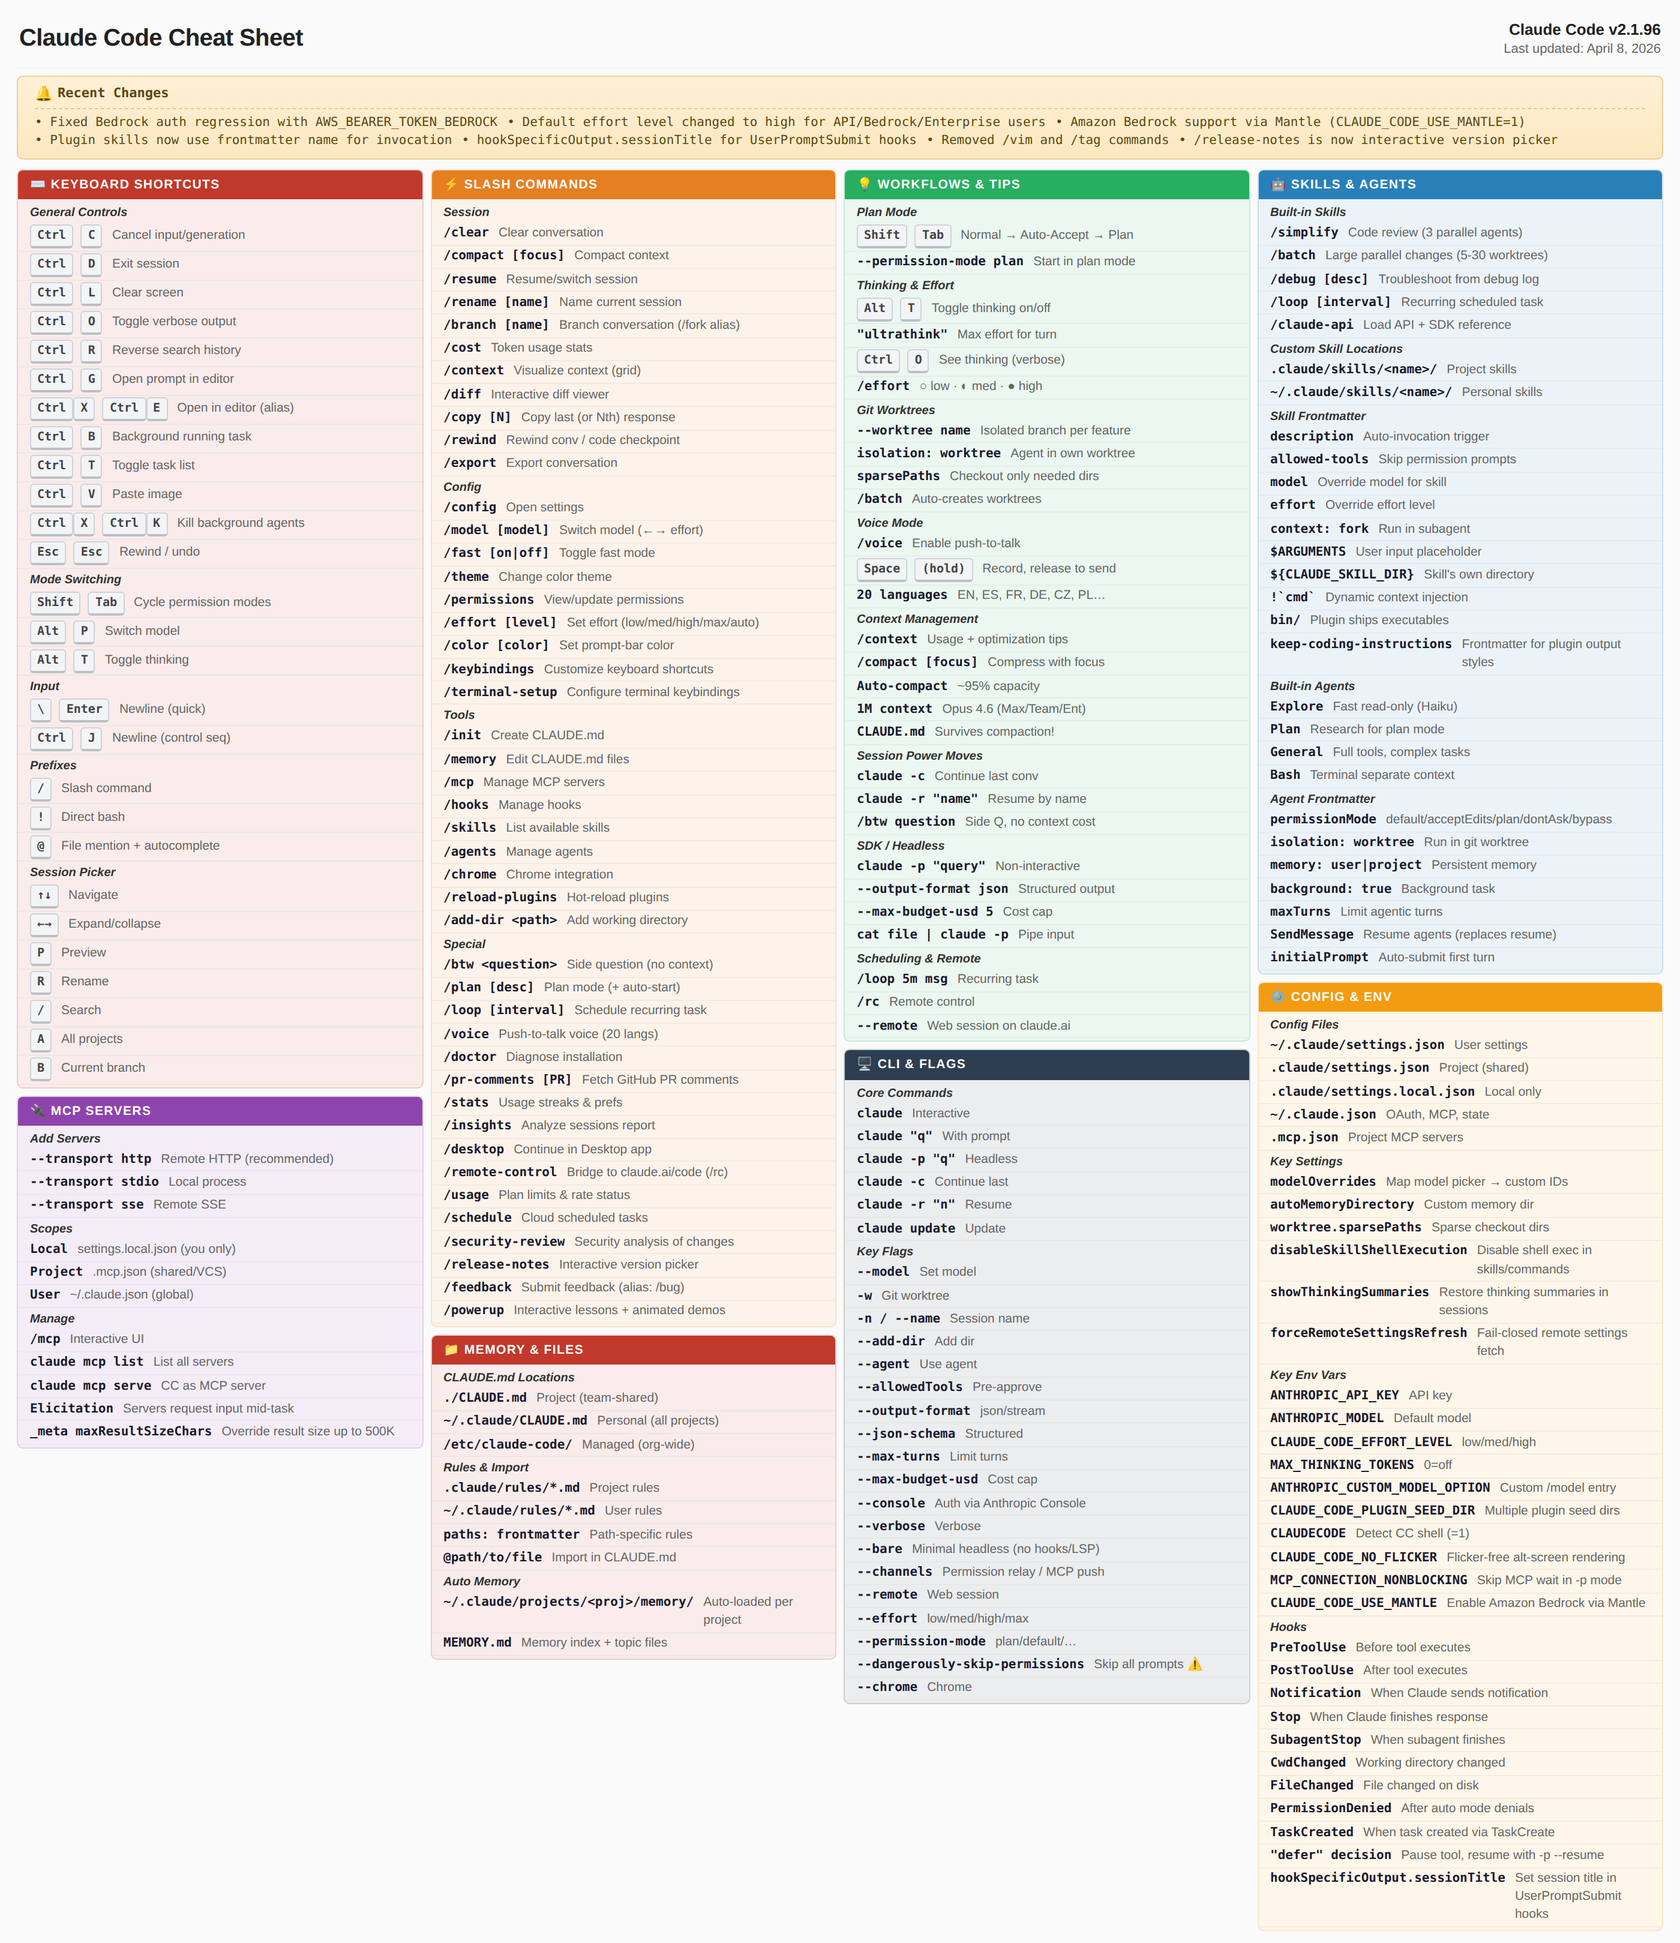
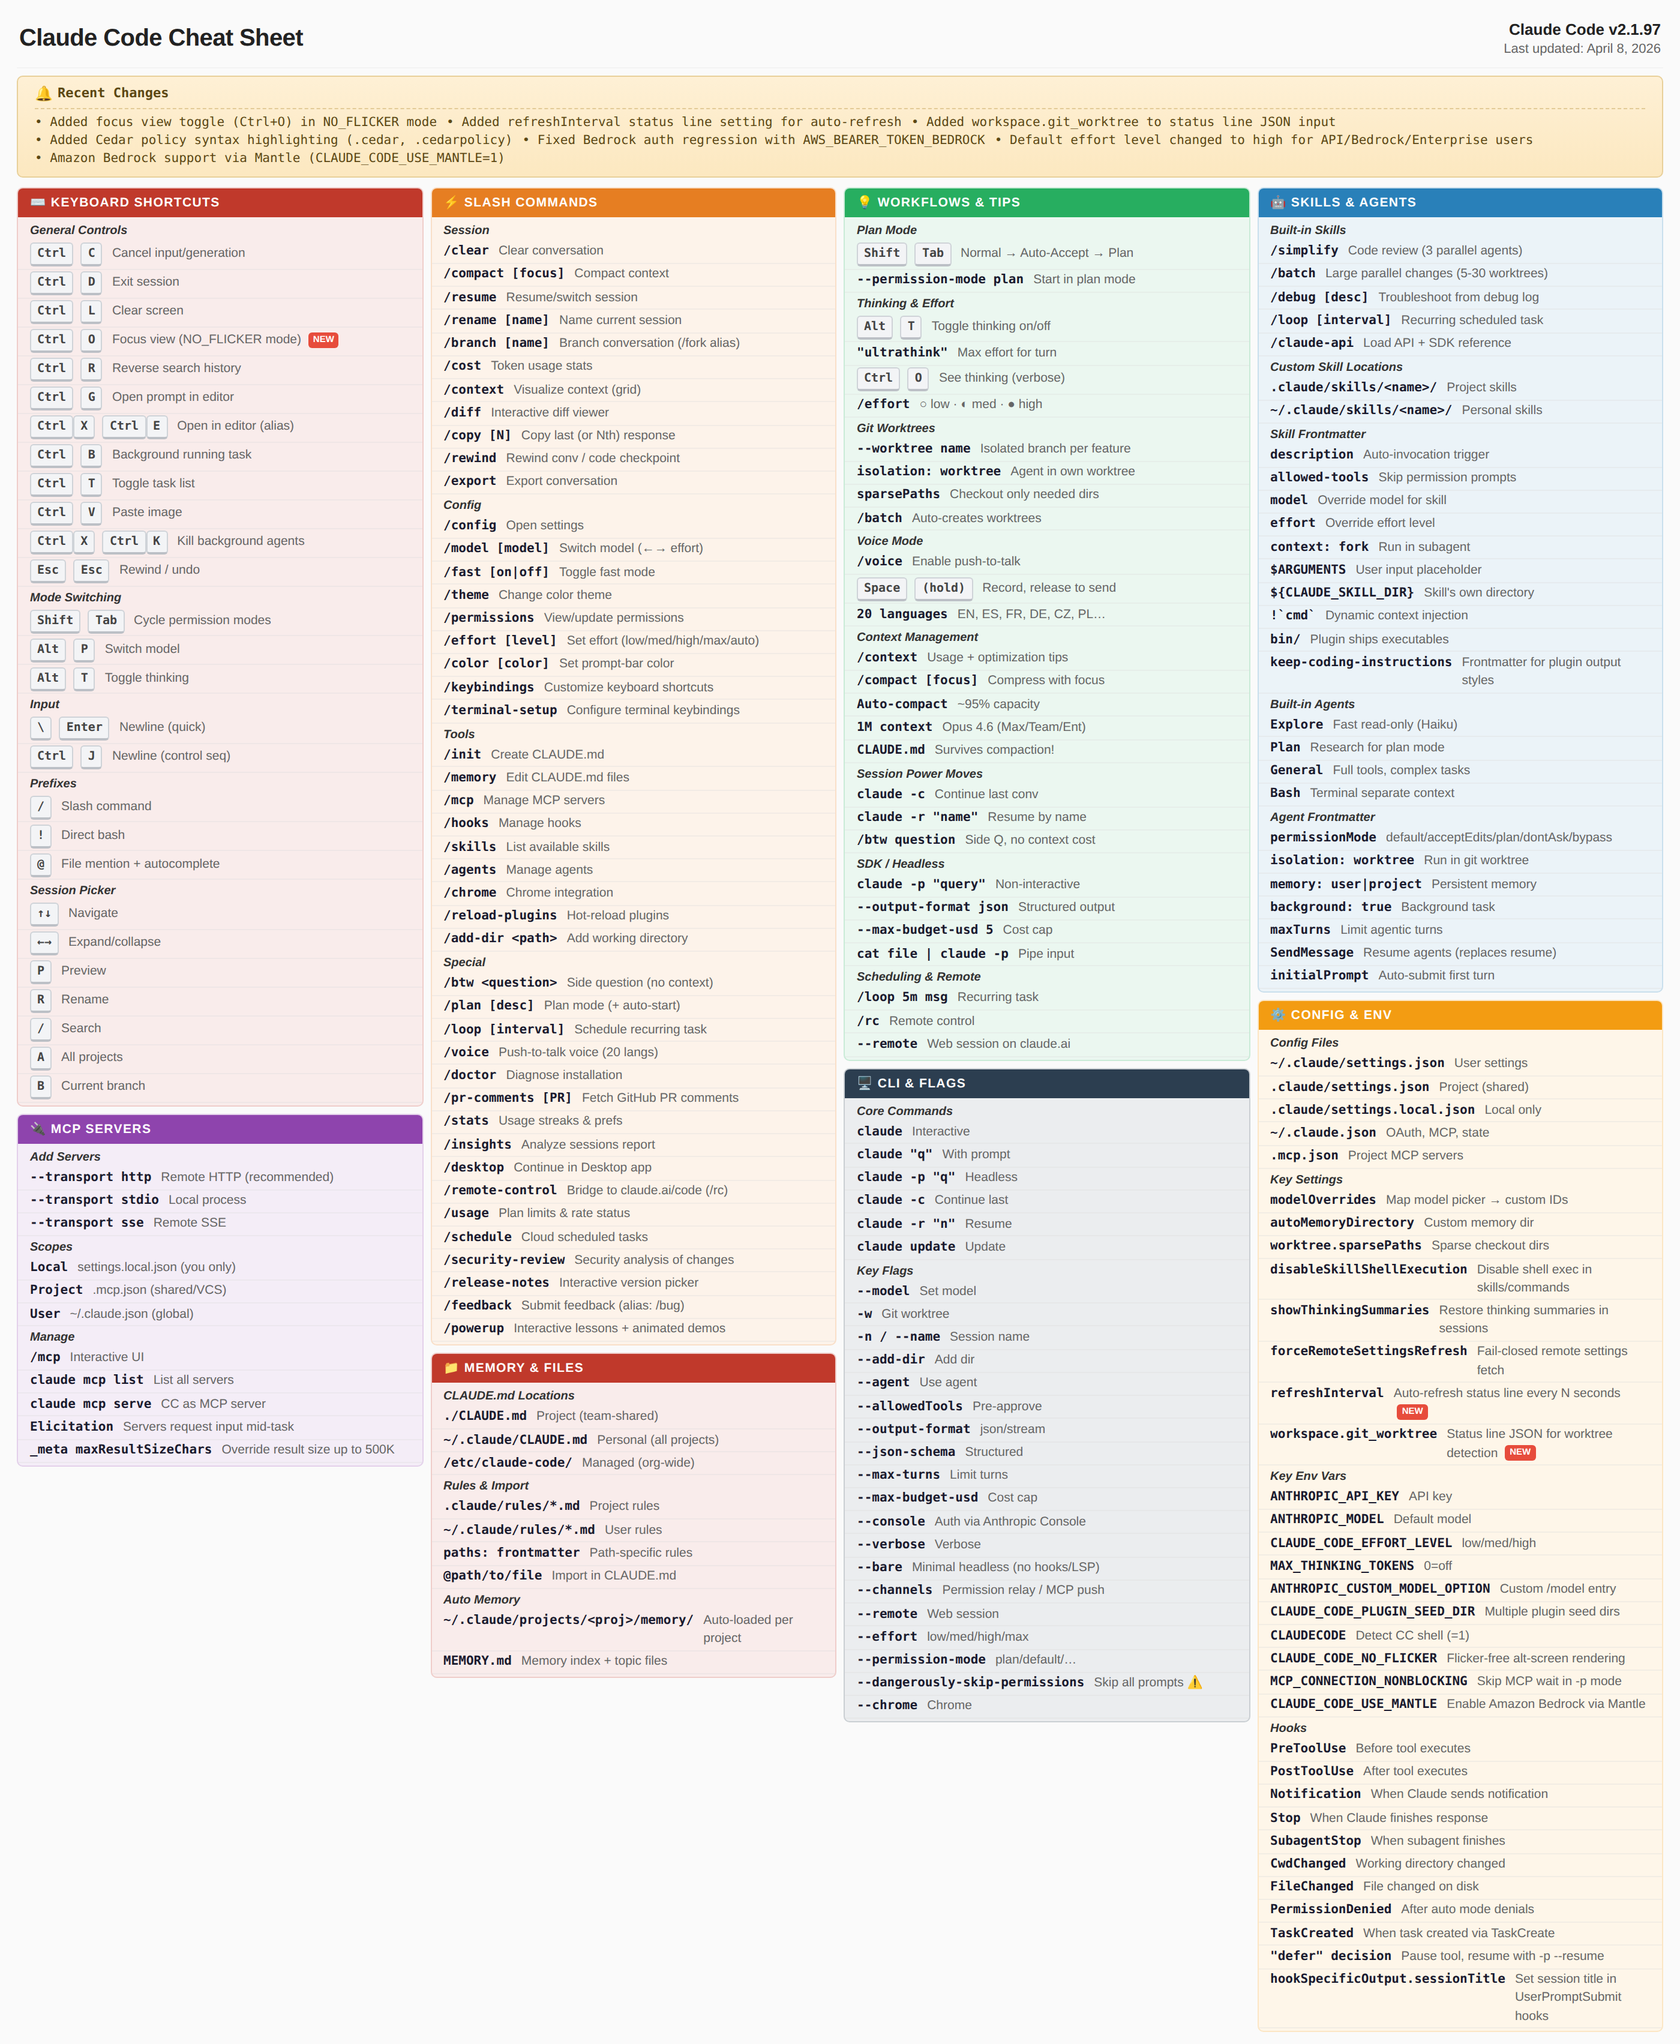
cheatsheet: update to v2.1.97

Changed region(s): [[0.0, 0.0, 0.9943, 0.9981], [0.6836, 0.8422, 0.7146, 0.8734], [0.1864, 0.156, 0.2175, 0.1872]]

diff --git a/docs/changelog.html b/docs/changelog.html
@@ -78,7 +78,25 @@ del { opacity: 0.5; text-decoration: line-through; }
 </p>
 
 
-    <details id="v2.1.96" open>
+    <details id="v2.1.97" open>
+      <summary>
+        <strong>v2.1.97</strong>
+        <span class="changelog-date">2026-04-08</span>
+        <span class="changelog-stats">
+          <span class="stat-add">+3</span>
+          <span class="stat-update">~1</span>
+          
+        </span>
+      </summary>
+      <div class="diff-body">
+        <div class="diff-label">Cheatsheet changes:</div>
+        <div class="diff-item diff-add">+ <strong>Ctrl O</strong> → Focus view (NO_FLICKER mode) <span class="diff-section">[keyboard-shortcuts]</span></div><div class="diff-item diff-add">+ <strong>refreshInterval</strong> → Auto-refresh status line every N seconds <span class="diff-section">[config-env]</span></div><div class="diff-item diff-add">+ <strong>workspace.git_worktree</strong> → Status line JSON for worktree detection <span class="diff-section">[config-env]</span></div><div class="diff-item diff-update">~ <strong>Ctrl O</strong>: <del>Toggle verbose output</del> → Focus view (NO_FLICKER mode) <span class="diff-section">[keyboard-shortcuts]</span></div>
+        
+        <div class="raw-section"><div class="diff-label">Full changelog (46 entries):</div><div class="raw-entries"><div class="raw-entry">• Added focus view toggle (`Ctrl+O`) in `NO_FLICKER` mode showing prompt, one-line tool summary with edit diffstats, and final response</div><div class="raw-entry">• Added `refreshInterval` status line setting to re-run the status line command every N seconds</div><div class="raw-entry">• Added `workspace.git_worktree` to the status line JSON input, set when the current directory is inside a linked git worktree</div><div class="raw-entry">• Added `● N running` indicator in `/agents` next to agent types with live subagent instances</div><div class="raw-entry">• Added syntax highlighting for Cedar policy files (`.cedar`, `.cedarpolicy`)</div><div class="raw-entry">• Fixed `--dangerously-skip-permissions` being silently downgraded to accept-edits mode after approving a write to a protected path</div><div class="raw-entry">• Fixed and hardened Bash tool permissions, tightening checks around env-var prefixes and network redirects, and reducing false prompts on common commands</div><div class="raw-entry">• Fixed permission rules with names matching JavaScript prototype properties (e.g. `toString`) causing `settings.json` to be silently ignored</div><div class="raw-entry">• Fixed managed-settings allow rules remaining active after an admin removed them until process restart</div><div class="raw-entry">• Fixed `permissions.additionalDirectories` changes in settings not applying mid-session</div><div class="raw-entry">• Fixed removing a directory from `settings.permissions.additionalDirectories` revoking access to the same directory passed via `--add-dir`</div><div class="raw-entry">• Fixed MCP HTTP/SSE connections accumulating ~50 MB/hr of unreleased buffers when servers reconnect</div><div class="raw-entry">• Fixed MCP OAuth `oauth.authServerMetadataUrl` not being honored on token refresh after restart, fixing ADFS and similar IdPs</div><div class="raw-entry">• Fixed 429 retries burning all attempts in ~13 seconds when the server returns a small `Retry-After` — exponential backoff now applies as a minimum</div><div class="raw-entry">• Fixed rate-limit upgrade options disappearing after context compaction</div><div class="raw-entry">• Fixed several `/resume` picker issues: `--resume &lt;name&gt;` opening uneditable, Ctrl+A reload wiping search, empty list swallowing navigation, task-status text replacing conversation summary, and cross-project staleness</div><div class="raw-entry">• Fixed file-edit diffs disappearing on `--resume` when the edited file was larger than 10KB</div><div class="raw-entry">• Fixed `--resume` cache misses and lost mid-turn input from attachment messages not being saved to the transcript</div><div class="raw-entry">• Fixed messages typed while Claude is working not being persisted to the transcript</div><div class="raw-entry">• Fixed prompt-type `Stop`/`SubagentStop` hooks failing on long sessions, and hook evaluator API errors displaying "JSON validation failed" instead of the actual message</div><div class="raw-entry">• Fixed subagents with worktree isolation or `cwd:` override leaking their working directory back to the parent session's Bash tool</div><div class="raw-entry">• Fixed compaction writing duplicate multi-MB subagent transcript files on prompt-too-long retries</div><div class="raw-entry">• Fixed `claude plugin update` reporting "already at the latest version" for git-based marketplace plugins when the remote had newer commits</div><div class="raw-entry">• Fixed slash command picker breaking when a plugin's frontmatter `name` is a YAML boolean keyword</div><div class="raw-entry">• Fixed copying wrapped URLs in `NO_FLICKER` mode inserting spaces at line breaks</div><div class="raw-entry">• Fixed scroll rendering artifacts in `NO_FLICKER` mode when running inside zellij</div><div class="raw-entry">• Fixed a crash in `NO_FLICKER` mode when hovering over MCP tool results</div><div class="raw-entry">• Fixed a `NO_FLICKER` mode memory leak where API retries left stale streaming state</div><div class="raw-entry">• Fixed slow mouse-wheel scrolling in `NO_FLICKER` mode on Windows Terminal</div><div class="raw-entry">• Fixed custom status line not displaying in `NO_FLICKER` mode on terminals shorter than 24 rows</div><div class="raw-entry">• Fixed Shift+Enter and Alt/Cmd+arrow shortcuts not working in Warp with `NO_FLICKER` mode</div><div class="raw-entry">• Fixed Korean/Japanese/Unicode text becoming garbled when copied in no-flicker mode on Windows</div><div class="raw-entry">• Fixed Bedrock SigV4 authentication failing when `AWS_BEARER_TOKEN_BEDROCK` or `ANTHROPIC_BEDROCK_BASE_URL` are set to empty strings (as GitHub Actions does for unset inputs)</div><div class="raw-entry">• Improved Accept Edits mode to auto-approve filesystem commands prefixed with safe env vars or process wrappers (e.g. `LANG=C rm foo`, `timeout 5 mkdir out`)</div><div class="raw-entry">• Improved auto mode and bypass-permissions mode to auto-approve sandbox network access prompts</div><div class="raw-entry">• Improved sandbox: `sandbox.network.allowMachLookup` now takes effect on macOS</div><div class="raw-entry">• Improved image handling: pasted and attached images are now compressed to the same token budget as images read via the Read tool</div><div class="raw-entry">• Improved slash command and `@`-mention completion to trigger after CJK sentence punctuation, so Japanese/Chinese input no longer requires a space before `/` or `@`</div><div class="raw-entry">• Improved Bridge sessions to show the local git repo, branch, and working directory on the claude.ai session card</div><div class="raw-entry">• Improved footer layout: indicators (Focus, notifications) now stay on the mode-indicator row instead of wrapping below</div><div class="raw-entry">• Improved context-low warning to show as a transient footer notification instead of a persistent row</div><div class="raw-entry">• Improved markdown blockquotes to show a continuous left bar across wrapped lines</div><div class="raw-entry">• Improved session transcript size by skipping empty hook entries and capping stored pre-edit file copies</div><div class="raw-entry">• Improved transcript accuracy: per-block entries now carry the final token usage instead of the streaming placeholder</div><div class="raw-entry">• Improved Bash tool OTEL tracing: subprocesses now inherit a W3C `TRACEPARENT` env var when tracing is enabled</div><div class="raw-entry">• Updated `/claude-api` skill to cover Managed Agents alongside the Claude API</div></div></div>
+      </div>
+    </details>
+
+    <details id="v2.1.96" >
       <summary>
         <strong>v2.1.96</strong>
         <span class="changelog-date">2026-04-08</span>

diff --git a/docs/index.html b/docs/index.html
@@ -138,14 +138,14 @@ kbd{
 <header class="header">
   <h1>Claude Code Cheat Sheet</h1>
   <div class="header-right">
-    <span class="version-label">Claude Code v2.1.96</span>
+    <span class="version-label">Claude Code v2.1.97</span>
     <span class="date-label">Last updated: April 8, 2026</span>
   </div>
 </header>
 
 <div class="recent-bar">
   <div class="rc-header"><span class="rc-icon">🔔</span> <span class="rc-title">Recent Changes</span></div>
-  <div class="rc-content"><span class="rc-item">• Fixed Bedrock auth regression with AWS_BEARER_TOKEN_BEDROCK</span>  <span class="rc-item">• Default effort level changed to high for API/Bedrock/Enterprise users</span>  <span class="rc-item">• Amazon Bedrock support via Mantle (CLAUDE_CODE_USE_MANTLE=1)</span>  <span class="rc-item">• Plugin skills now use frontmatter name for invocation</span>  <span class="rc-item">• hookSpecificOutput.sessionTitle for UserPromptSubmit hooks</span>  <span class="rc-item">• Removed /vim and /tag commands</span>  <span class="rc-item">• /release-notes is now interactive version picker</span></div>
+  <div class="rc-content"><span class="rc-item">• Added focus view toggle (Ctrl+O) in NO_FLICKER mode</span>  <span class="rc-item">• Added refreshInterval status line setting for auto-refresh</span>  <span class="rc-item">• Added workspace.git_worktree to status line JSON input</span>  <span class="rc-item">• Added Cedar policy syntax highlighting (.cedar, .cedarpolicy)</span>  <span class="rc-item">• Fixed Bedrock auth regression with AWS_BEARER_TOKEN_BEDROCK</span>  <span class="rc-item">• Default effort level changed to high for API/Bedrock/Enterprise users</span>  <span class="rc-item">• Amazon Bedrock support via Mantle (CLAUDE_CODE_USE_MANTLE=1)</span></div>
   <button class="rc-close" onclick="this.parentElement.style.display='none'" aria-label="Close">×</button>
 </div>
 
@@ -172,7 +172,7 @@ kbd{
               </div>
               <div class="item" data-copy="Ctrl O">
                 <span class="item-key"><kbd>Ctrl</kbd> <kbd>O</kbd></span>
-                <span class="item-val">Toggle verbose output</span>
+                <span class="item-val">Focus view (NO_FLICKER mode) <b class="new">NEW</b></span>
               </div>
               <div class="item" data-copy="Ctrl R">
                 <span class="item-key"><kbd>Ctrl</kbd> <kbd>R</kbd></span>
@@ -1059,6 +1059,14 @@ kbd{
               <div class="item" data-copy="forceRemoteSettingsRefresh">
                 <span class="item-key">forceRemoteSettingsRefresh</span>
                 <span class="item-val">Fail-closed remote settings fetch</span>
+              </div>
+              <div class="item" data-copy="refreshInterval">
+                <span class="item-key">refreshInterval</span>
+                <span class="item-val">Auto-refresh status line every N seconds <b class="new">NEW</b></span>
+              </div>
+              <div class="item" data-copy="workspace.git_worktree">
+                <span class="item-key">workspace.git_worktree</span>
+                <span class="item-val">Status line JSON for worktree detection <b class="new">NEW</b></span>
               </div>
             </div>
             <div class="group">

diff --git a/CHEATSHEET.md b/CHEATSHEET.md
@@ -1,16 +1,16 @@
-# Claude Code Cheatsheet v2.1.96
+# Claude Code Cheatsheet v2.1.97
 
 > Auto-generated from [cheatsheet.json](cheatsheet.json) | [Visual version](cheatsheet.png) | [Interactive](https://defaultperson.github.io/claude-code-live-cheatsheet/)
 
 ## Recent Changes
 
+- Added focus view toggle (Ctrl+O) in NO_FLICKER mode *(v2.1.97)*
+- Added refreshInterval status line setting for auto-refresh *(v2.1.97)*
+- Added workspace.git_worktree to status line JSON input *(v2.1.97)*
+- Added Cedar policy syntax highlighting (.cedar, .cedarpolicy) *(v2.1.97)*
 - Fixed Bedrock auth regression with AWS_BEARER_TOKEN_BEDROCK *(v2.1.96)*
 - Default effort level changed to high for API/Bedrock/Enterprise users *(v2.1.94)*
 - Amazon Bedrock support via Mantle (CLAUDE_CODE_USE_MANTLE=1) *(v2.1.94)*
-- Plugin skills now use frontmatter name for invocation *(v2.1.94)*
-- hookSpecificOutput.sessionTitle for UserPromptSubmit hooks *(v2.1.94)*
-- Removed /vim and /tag commands *(v2.1.92)*
-- /release-notes is now interactive version picker *(v2.1.92)*
 
 ---
 
@@ -23,7 +23,7 @@
 | `Ctrl C` | Cancel input/generation |
 | `Ctrl D` | Exit session |
 | `Ctrl L` | Clear screen |
-| `Ctrl O` | Toggle verbose output |
+| `Ctrl O` | Focus view (NO_FLICKER mode) **NEW** |
 | `Ctrl R` | Reverse search history |
 | `Ctrl G` | Open prompt in editor |
 | `Ctrl+X Ctrl+E` | Open in editor (alias) |
@@ -373,6 +373,8 @@
 | `disableSkillShellExecution` | Disable shell exec in skills/commands |
 | `showThinkingSummaries` | Restore thinking summaries in sessions |
 | `forceRemoteSettingsRefresh` | Fail-closed remote settings fetch |
+| `refreshInterval` | Auto-refresh status line every N seconds **NEW** |
+| `workspace.git_worktree` | Status line JSON for worktree detection **NEW** |
 
 ### Key Env Vars
 

diff --git a/README.md b/README.md
@@ -5,8 +5,8 @@
 > Self-updating visual reference for [Claude Code](https://claude.com/code).
 > Refreshed every 5 minutes from the official [CHANGELOG](https://github.com/anthropics/claude-code/blob/main/CHANGELOG.md).
 
-[![Version](https://img.shields.io/badge/Claude_Code-v2.1.96-blue)](https://github.com/anthropics/claude-code)
-[![Items](https://img.shields.io/badge/items-205-green)](CHEATSHEET.md)
+[![Version](https://img.shields.io/badge/Claude_Code-v2.1.97-blue)](https://github.com/anthropics/claude-code)
+[![Items](https://img.shields.io/badge/items-207-green)](CHEATSHEET.md)
 [![RSS](https://img.shields.io/badge/RSS-feed-orange)](https://defaultperson.github.io/claude-code-live-cheatsheet/feed.xml)
 
 **[Live interactive version →](https://defaultperson.github.io/claude-code-live-cheatsheet/)**
